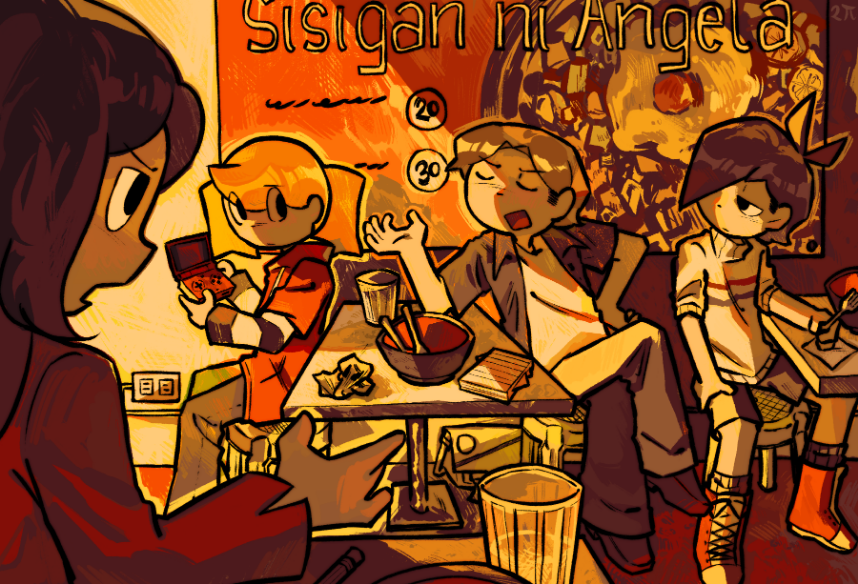
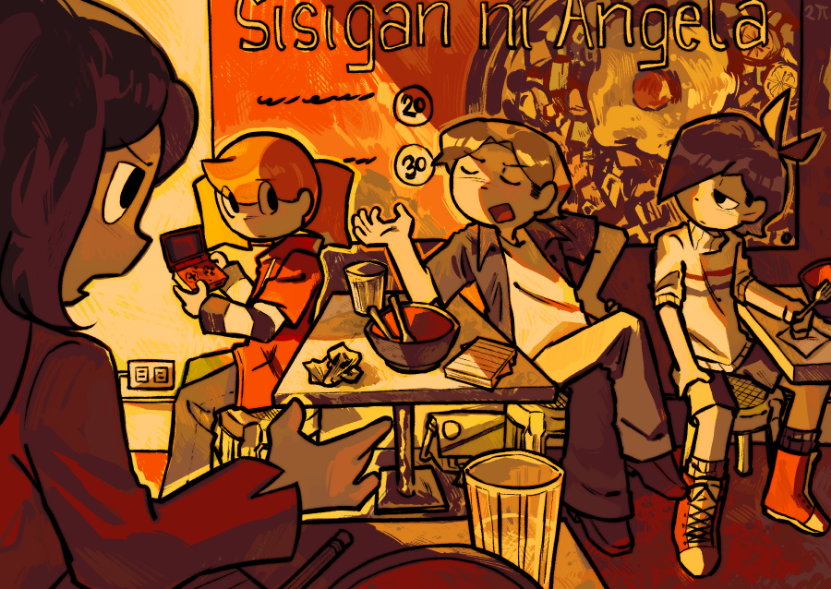
updated art

diff --git a/public/art/2025.html b/public/art/2025.html
@@ -12,7 +12,7 @@
 <div class="main-content">
   <h1>2025 GALLERY</h1>
   <div class="justified-gallery">
-    <img src="./img/2025-Pedant.png" style="--width:858 ;--height:584 ;">
+    <img src="./img/2025-Pedant.png" style="--width:831 ;--height:589 ;">
     <img src="./img/2025-Ethan-in-a-Suit.png" style="--width:598 ;--height:748 ;">
     <img src="./img/2025-Forgotten.png" style="--width: 560; --height: 747;">
     <img src="./img/2025-No-Standby.png" style="--width: 766; --height: 796;">
